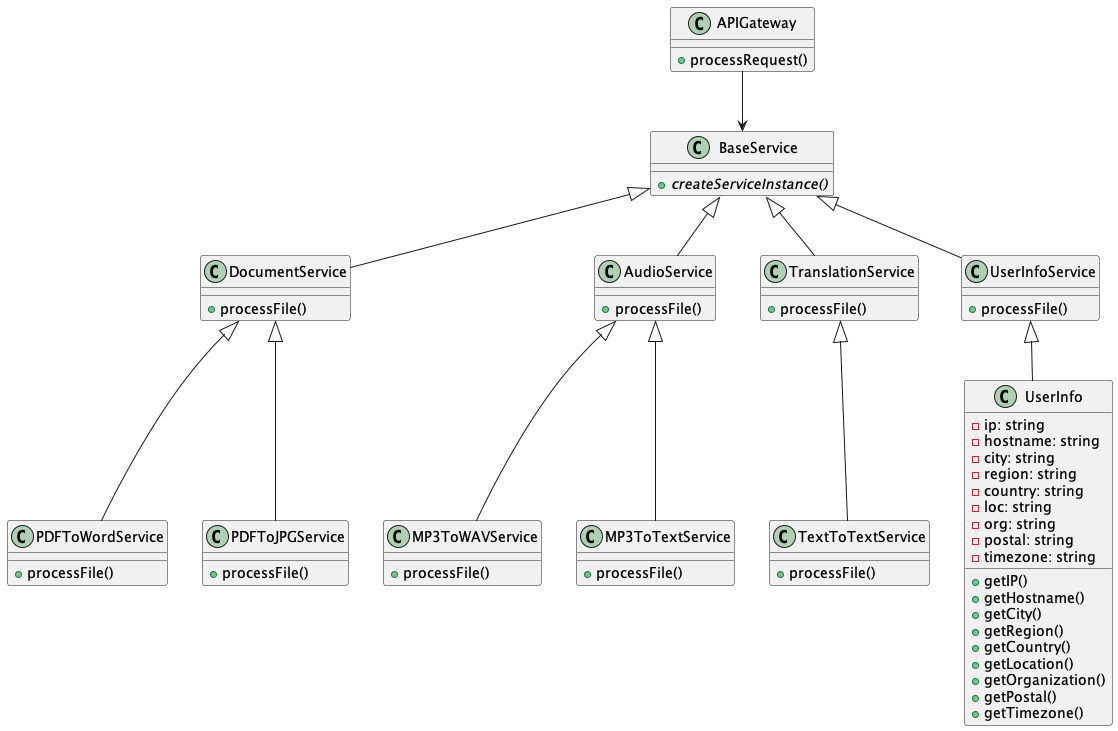
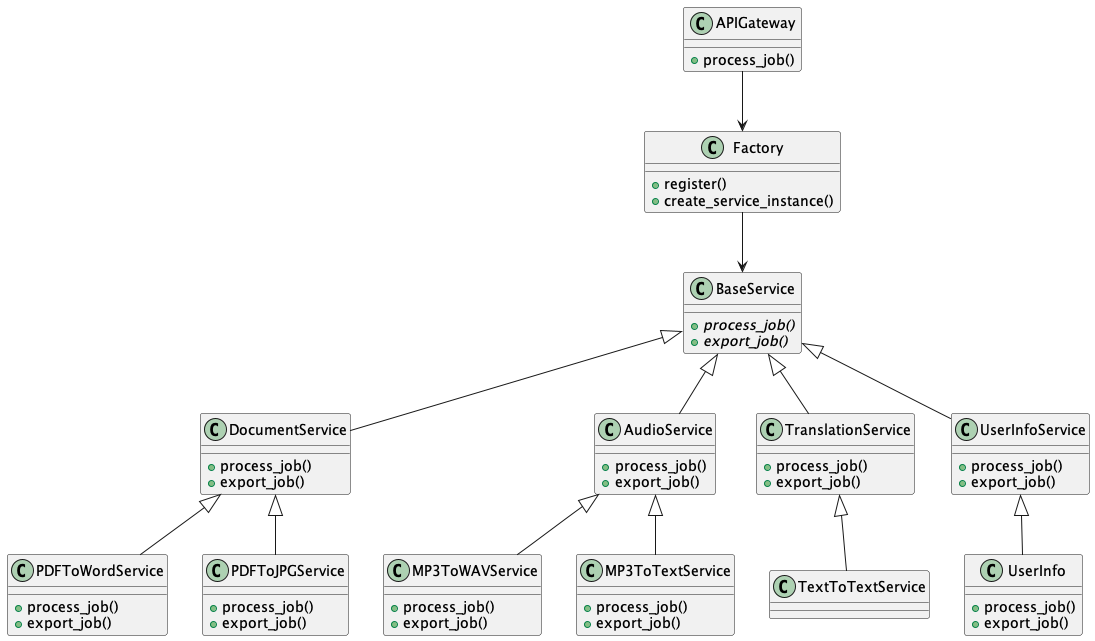
initial architecture and modified diagrams

diff --git a/app/gateway.py b/app/gateway.py
@@ -1,0 +1,24 @@
+from fastapi import FastAPI, HTTPException
+
+from app.services.main import Factory
+
+app = FastAPI()
+factory = Factory()
+
+
+def _get_service(service_name: str):
+    service = factory.create_service_instance(
+        service_name=service_name
+    )
+    return service
+
+
+@app.post("/api/process-job")
+async def process_job(job_type: str):
+    if job_type:
+        service = _get_service(job_type)
+        service.process_job()
+        file = service.export_job()
+        return {"job_type": job_type, "file": file}
+    else:
+        raise HTTPException(status_code=400, detail="No job type provided")

diff --git a/app/services/main.py b/app/services/main.py
@@ -1,0 +1,17 @@
+from .base_service.base_service import BaseService
+
+
+class Factory:
+    def __init__(self):
+        self._services = {}
+
+    def register(self, service_name: str, service: BaseService) -> None:
+        if not issubclass(service, BaseService):
+            raise ValueError("Service must be a subclass of BaseService")
+        self._services[service_name] = service
+
+    def create_service_instance(self, service_name: str) -> BaseService:
+        service = self._services.get(service_name)
+        if not service:
+            raise ValueError("Invalid service name")
+        return service

diff --git a/app/tests/gateway_test.py b/app/tests/gateway_test.py
@@ -1,0 +1,12 @@
+from fastapi import HTTPException
+
+
+def test__process_job__returns_not_found__when_invalid_job_type(client, mocker):
+    mocker.patch(
+        "app.gateway._get_service",
+        side_effect=HTTPException(status_code=400, detail="Invalid job type"),
+    )
+    response = client.post("/api/process-job?job_type=None")
+    assert response.status_code == 400
+    assert response.json() == {"detail": "Invalid job type"}
+    assert response.headers["content-type"] == "application/json"

diff --git a/app/services/base_service/base_service.py b/app/services/base_service/base_service.py
@@ -1,0 +1,15 @@
+from abc import ABC, abstractmethod
+
+
+class BaseService(ABC):
+    @abstractmethod
+    def __init__(self, *args, **kwargs):
+        pass
+
+    @abstractmethod
+    def process_job(self, *args, **kwargs):
+        pass
+
+    @abstractmethod
+    def export_job(self, *args, **kwargs):
+        pass

diff --git a/app/tests/conftest.py b/app/tests/conftest.py
@@ -1,0 +1,8 @@
+import pytest
+from fastapi.testclient import TestClient
+
+from app.gateway import app
+
+@pytest.fixture
+def client():
+    return TestClient(app)

diff --git a/app/services/base_service/__init__.py b/app/services/base_service/__init__.py
@@ -1,0 +1,1 @@
+from .base_service import BaseService  # noqa: F401
